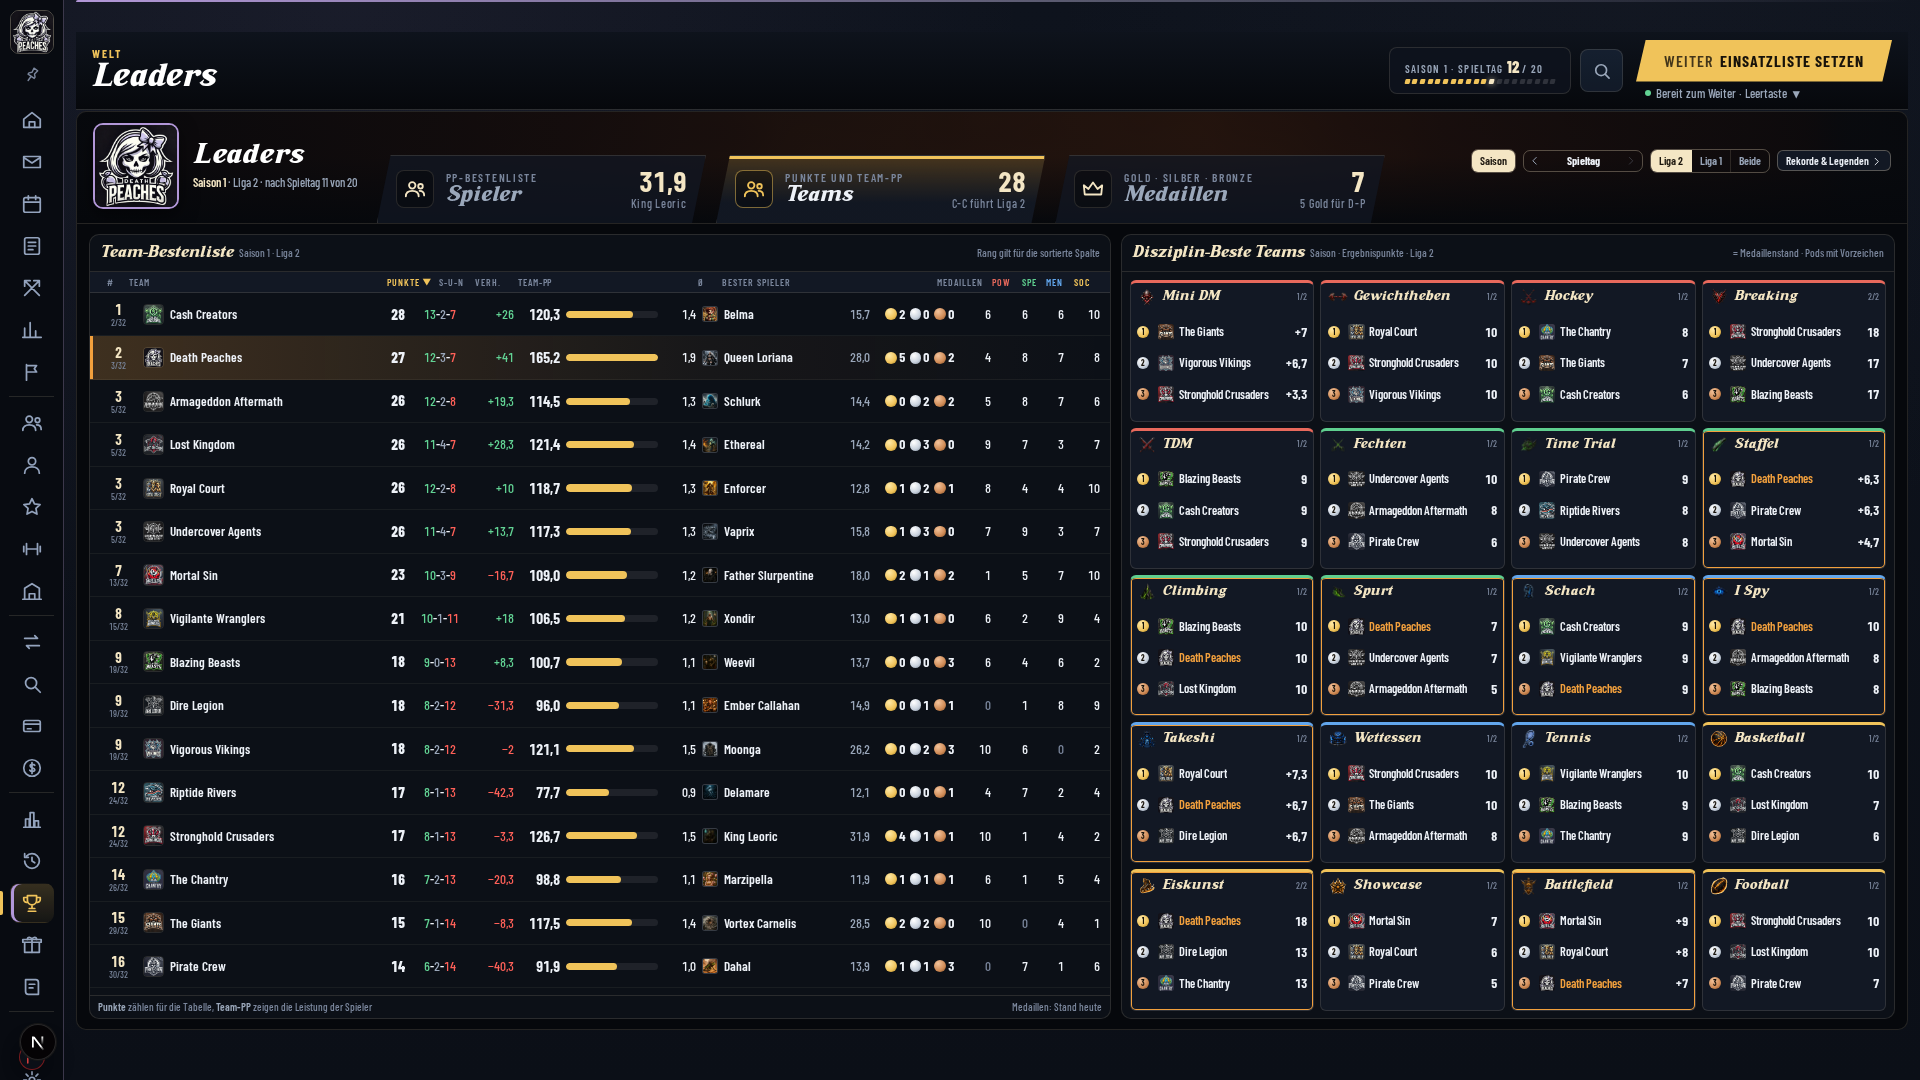
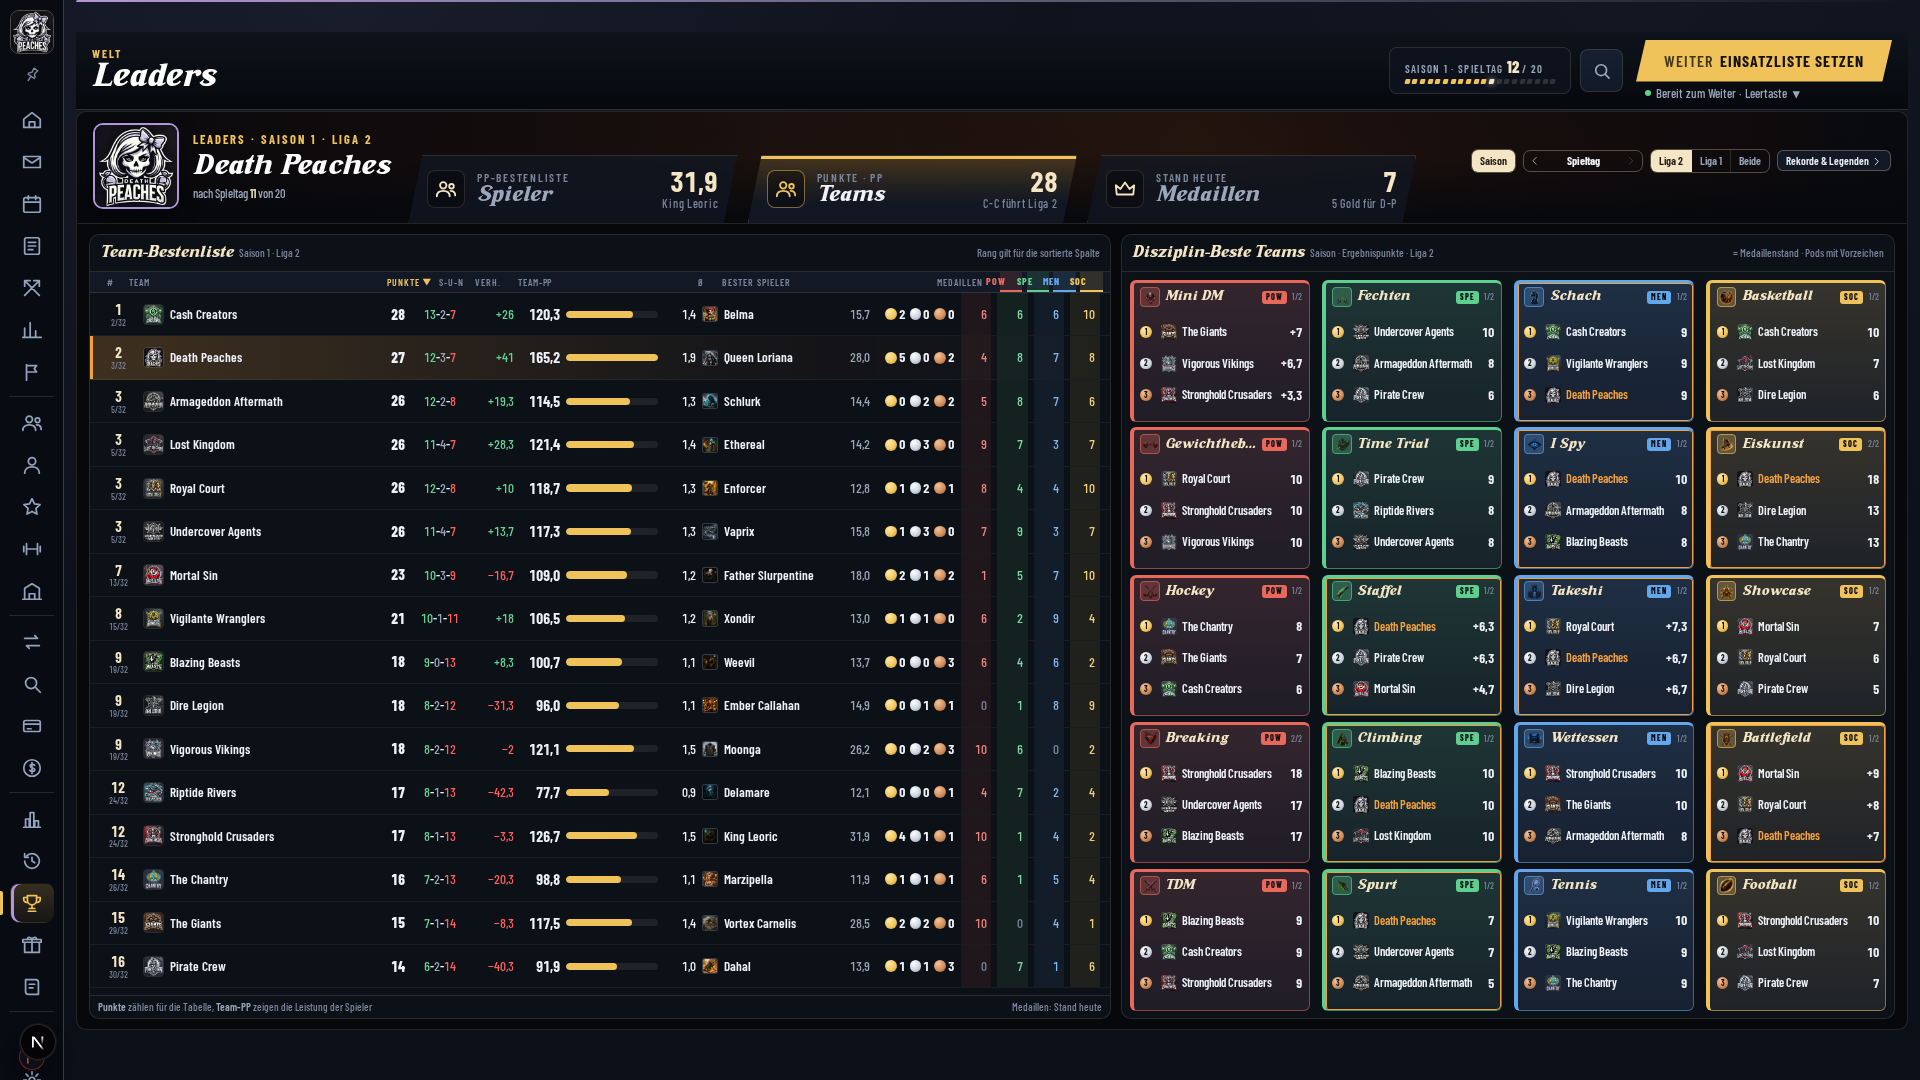
Leaders: Bereichsfarben, ein Titel im Kopf, Reiter ungekürzt, Abgleich mit Mockup
- Doppelter Titel behoben: Dachzeile "Leaders · Saison/Spieltag · Liga", Titel = Team (wie Saisonstand)
- Reiter bei 1710 px nicht mehr gekürzt (kürzere Eyebrows, unter 1800 px engere Reiter)
- Disziplin-Karten spaltenweise je Bereich mit Kante, Tönung, Kürzel und Icon-Chip in Bereichsfarbe
- Filter-Chips und Bereichsspalten in Spieler- und Team-Tabelle in Bereichsfarbe
- Bildpaare Mockup | App unter docs/design/leaders-modern-22-11/vergleich-*.png, Liste aktualisiert; veraltete Aufnahmen entfernt

Claude-Session: https://claude.ai/code/session_01UYLNtXkprKr1XK4c3X2xQq

diff --git a/app/foundation/league-leaders-v2/LeadersModern.tsx b/app/foundation/league-leaders-v2/LeadersModern.tsx
@@ -87,10 +87,10 @@ function Por({ s }: { s: LeadersSpieler }) {
   return s.portraitSrc ? <img className="po" src={s.portraitSrc} alt="" loading="lazy" /> : <span className="po">{s.initials}</span>;
 }
 type Sort = { k: string; d: 1 | -1 };
-function Kopf({ k, so, onSo, cls, tip, children }: { k: string; so: Sort; onSo: (k: string) => void; cls?: string; tip?: string; children: ReactNode }) {
+function Kopf({ k, so, onSo, cls, tip, kc, children }: { k: string; so: Sort; onSo: (k: string) => void; cls?: string; tip?: string; kc?: string; children: ReactNode }) {
   const an = so.k === k;
   return (
-    <button type="button" className={`${cls ?? ""}${an ? " so" : ""}`} data-tip={tip} onClick={() => onSo(k)}>
+    <button type="button" className={`${cls ?? ""}${an ? " so" : ""}`} style={kc ? ({ "--kc": kc } as CSSProperties) : undefined} data-tip={tip} onClick={() => onSo(k)}>
       {children}
       <span className="pf">{an && so.d > 0 ? "▲" : "▼"}</span>
     </button>
@@ -175,18 +175,23 @@ export default function LeadersModern(props: LeadersModernProps) {
       className="ld-hero"
       wappen={eigenesTeam?.logoSrc ?? null}
       wappenAlt={eigenesTeam?.name ?? ""}
-      titel="Leaders"
+      dachzeile={
+        <>
+          Leaders · {zeitName} · {ligaName}
+        </>
+      }
+      titel={eigenesTeam?.name ?? "Leaders"}
       kulisseUrl={kulisse}
       untertitel={
         <>
-          <b>{zeitName}</b> · {ligaName} · nach Spieltag {m.gebuchteSpieltage} von {m.spieltageGesamt}
+          nach Spieltag <b>{m.gebuchteSpieltage}</b> von {m.spieltageGesamt}
         </>
       }
       mitte={
         <>
           <BcReiter aktiv={sicht === "spieler"} onClick={() => setSicht("spieler")} eyebrow="PP-Bestenliste" titel="Spieler" symbol={<BcIcon name="team" />} wert={topSp ? z1(topSp.pp) : "–"} wertNote={topSp?.spieler.name ?? ""} />
-          <BcReiter aktiv={sicht === "teams"} onClick={() => setSicht("teams")} eyebrow="Punkte und Team-PP" titel="Teams" symbol={<BcIcon name="team" />} wert={fuehrer ? fuehrer.punkte : "–"} wertNote={fuehrer ? `${fuehrer.team.kuerzel} führt${eigeneLiga ? ` Liga ${eigeneLiga}` : ""}` : ""} />
-          <BcReiter aktiv={sicht === "medaillen"} onClick={() => { setSicht("medaillen"); setZeit(0); }} eyebrow="Gold · Silber · Bronze" titel="Medaillen" symbol={<BcIcon name="krone" />} wert={eigMed ? eigMed.gold + eigMed.silber + eigMed.bronze : "–"} wertNote={eigMed && eigenesTeam ? `${eigMed.gold} Gold für ${eigenesTeam.kuerzel}` : ""} />
+          <BcReiter aktiv={sicht === "teams"} onClick={() => setSicht("teams")} eyebrow="Punkte · PP" titel="Teams" symbol={<BcIcon name="team" />} wert={fuehrer ? fuehrer.punkte : "–"} wertNote={fuehrer ? `${fuehrer.team.kuerzel} führt${eigeneLiga ? ` Liga ${eigeneLiga}` : ""}` : ""} />
+          <BcReiter aktiv={sicht === "medaillen"} onClick={() => { setSicht("medaillen"); setZeit(0); }} eyebrow="Stand heute" titel="Medaillen" symbol={<BcIcon name="krone" />} wert={eigMed ? eigMed.gold + eigMed.silber + eigMed.bronze : "–"} wertNote={eigMed && eigenesTeam ? `${eigMed.gold} Gold für ${eigenesTeam.kuerzel}` : ""} />
         </>
       }
       rechts={
@@ -228,11 +233,16 @@ export default function LeadersModern(props: LeadersModernProps) {
       <div className="kk">
         <Dz id={id} name={d?.name ?? id} />
         <b>{d?.name ?? id}</b>
+        {bereichTag(id)}
         <small>{rechts}</small>
       </div>
     );
   };
   const kartenStil = (achse: LeadersAchse) => ({ "--kc": FARBE[achse] }) as CSSProperties;
+  const bereichTag = (id: string) => {
+    const a = m.disziplinen.find((x) => x.id === id)?.achse;
+    return a ? <i className="ld-ab">{LEADERS_ACHSEN_LABEL[a]}</i> : null;
+  };
 
   /* ---------------- Spieler ---------------- */
   const spielerLinks = () => {
@@ -257,7 +267,7 @@ export default function LeadersModern(props: LeadersModernProps) {
           <div className="ld-seg" role="group" aria-label="Bereich">
             <button type="button" aria-pressed={!ber} onClick={() => { setBer(null); setSoS({ k: "pp", d: -1 }); }}>Alle PP</button>
             {LEADERS_ACHSEN.map((a) => (
-              <button key={a} type="button" aria-pressed={ber === a} style={ber === a ? { background: FARBE[a], color: "#0b0d12" } : { color: FARBE[a] }} onClick={() => { setBer(a); setSoS({ k: "pp", d: -1 }); }}>{LEADERS_ACHSEN_LABEL[a]}</button>
+              <button key={a} type="button" className="ld-bb" aria-pressed={ber === a} style={{ "--kc": FARBE[a] } as CSSProperties} onClick={() => { setBer(a); setSoS({ k: "pp", d: -1 }); }}>{LEADERS_ACHSEN_LABEL[a]}</button>
             ))}
           </div>
         </div>
@@ -291,7 +301,7 @@ export default function LeadersModern(props: LeadersModernProps) {
             <Kopf k="e" so={soS} onSo={onSo} cls="r" tip="Einsätze">Eins.</Kopf>
             <Kopf k="ppe" so={soS} onSo={onSo} cls="r" tip="PP je Einsatz. Skala: der Tagesbeste einer Disziplin liegt um 5.">Ø</Kopf>
             {LEADERS_ACHSEN.map((a, i) => (
-              <Kopf key={a} k={`a${i}`} so={soS} onSo={onSo} cls="r"><span style={{ color: FARBE[a] }}>{LEADERS_ACHSEN_LABEL[a]}</span></Kopf>
+              <Kopf key={a} k={`a${i}`} so={soS} onSo={onSo} cls="r ld-ah" kc={FARBE[a]}><span>{LEADERS_ACHSEN_LABEL[a]}</span></Kopf>
             ))}
             <Kopf k="mvp" so={soS} onSo={onSo} cls="r" tip="Spieler des Spieltags (MVP-Kandidat der Wertung)">MVP</Kopf>
             <Kopf k="t10" so={soS} onSo={onSo} cls="r tipl" tip="So oft unter den zehn Besten einer Disziplin">Top 10</Kopf>
@@ -310,7 +320,7 @@ export default function LeadersModern(props: LeadersModernProps) {
                 <span className="r t leise">{z.einsaetze}</span>
                 <span className="r t">{z.einsaetze ? z1(z.pp / z.einsaetze) : "–"}</span>
                 {z.pa.map((p, i) => (
-                  <span key={i} className={`r t${p ? "" : " null"}`} style={ber === LEADERS_ACHSEN[i] ? { fontWeight: 700, color: FARBE[ber] } : undefined}>{p ? z1(p) : "–"}</span>
+                  <span key={i} className={`r t ld-aw${p ? "" : " null"}`} style={{ "--kc": FARBE[LEADERS_ACHSEN[i]!], ...(ber === LEADERS_ACHSEN[i] ? { fontWeight: 700 } : {}) } as CSSProperties}>{p ? z1(p) : "–"}</span>
                 ))}
                 <span className={`r t${z.mvp ? " gold" : " null"}`}><b>{z.mvp || "–"}</b></span>
                 <span className={`r t${z.top10 ? "" : " null"}`}>{z.top10 || "–"}</span>
@@ -439,7 +449,7 @@ export default function LeadersModern(props: LeadersModernProps) {
             <Kopf k="best" so={soT} onSo={onSo}>Bester Spieler</Kopf>
             <Kopf k="med" so={soT} onSo={onSo} cls="r" tip="Stand heute, vergeben am Saisonende">Medaillen</Kopf>
             {LEADERS_ACHSEN.map((a, i) => (
-              <Kopf key={a} k={`a${i}`} so={soT} onSo={onSo} cls={`r${i > 1 ? " tipl" : ""}`} tip={`Tabellenpunkte in ${LEADERS_ACHSEN_LABEL[a]}`}><span style={{ color: FARBE[a] }}>{LEADERS_ACHSEN_LABEL[a]}</span></Kopf>
+              <Kopf key={a} k={`a${i}`} so={soT} onSo={onSo} cls={`r ld-ah${i > 1 ? " tipl" : ""}`} kc={FARBE[a]} tip={`Tabellenpunkte in ${LEADERS_ACHSEN_LABEL[a]}`}><span>{LEADERS_ACHSEN_LABEL[a]}</span></Kopf>
             ))}
           </div>
           {liste.map((z) => (
@@ -453,7 +463,7 @@ export default function LeadersModern(props: LeadersModernProps) {
               <span className="r t">{z1(z.ppJeEinsatz)}</span>
               <span className="ld-sz">{z.best ? <><Por s={z.best.spieler} /><b>{z.best.spieler.name}</b><span className="t leise" style={{ marginLeft: "auto" }}>{z1(z.best.pp)}</span></> : "–"}</span>
               {medZ(z.team.teamId)}
-              {z.pa.map((p, i) => <span key={i} className={`r t${p ? "" : " null"}`}>{p}</span>)}
+              {z.pa.map((p, i) => <span key={i} className={`r t ld-aw${p ? "" : " null"}`} style={{ "--kc": FARBE[LEADERS_ACHSEN[i]!] } as CSSProperties}>{p}</span>)}
             </div>
           ))}
         </div>

diff --git a/app/foundation/league-leaders-v2/leaders-modern.css b/app/foundation/league-leaders-v2/leaders-modern.css
@@ -206,8 +206,8 @@
 .ld-med.s { background: radial-gradient(circle at 35% 30%, #fff, var(--ld-silber) 60%, #7d8896); }
 .ld-med.b { background: radial-gradient(circle at 35% 30%, #f3c39b, #cf8a55 60%, #7c4a22); }
 .ld-bsp { display: inline-flex; align-items: center; height: 1.3em; padding: 0 0.45em; border-radius: 3px; border: 1px dashed var(--bc-acht); color: var(--bc-acht); font-size: 0.68em; font-weight: 700; letter-spacing: 0.08em; text-transform: uppercase; white-space: nowrap; }
-.ld-dg { flex: 1; min-height: 0; display: grid; grid-template-columns: repeat(4, minmax(0, 1fr)); grid-template-rows: repeat(5, minmax(0, 1fr)); gap: 0.45em; padding: 0.6em; }
-.ld-karte { min-width: 0; min-height: 0; display: flex; flex-direction: column; border: 1px solid var(--bc-linie); border-top: 3px solid var(--kc); border-radius: 6px; background: var(--bc-flaeche-2); overflow: hidden; }
+.ld-dg { flex: 1; min-height: 0; display: grid; grid-auto-flow: column; grid-template-columns: repeat(4, minmax(0, 1fr)); grid-template-rows: repeat(5, minmax(0, 1fr)); gap: 0.4em 0.9em; padding: 0.6em; }
+.ld-karte { min-width: 0; min-height: 0; display: flex; flex-direction: column; border: 1px solid color-mix(in srgb, var(--kc) 50%, transparent); border-left: 4px solid var(--kc); border-top: 3px solid var(--kc); border-radius: 6px; background: linear-gradient(180deg, color-mix(in srgb, var(--kc) 16%, var(--bc-flaeche-2)), color-mix(in srgb, var(--kc) 6%, var(--bc-flaeche-2))); overflow: hidden; }
 .ld-karte.mein { box-shadow: inset 0 0 0 1px var(--bc-heim); }
 .ld-karte .kk { flex: none; display: flex; align-items: center; gap: 0.4em; padding: 0.3em 0.5em 0.15em; }
 .ld-karte .kk b { font: 400 1.02em/1 var(--bc-haus); color: var(--bc-creme); white-space: nowrap; overflow: hidden; text-overflow: ellipsis; flex: 1; min-width: 0; }
@@ -235,3 +235,21 @@
 .ld-hinw { flex: none; margin: 0 0.6em 0.6em; padding: 0.45em 0.65em; border: 1px solid var(--bc-linie); border-radius: 6px; background: var(--bc-flaeche-2); font-size: 0.86em; line-height: 1.3; color: var(--bc-leise); }
 .ld-hinw b { color: var(--bc-creme); }
 .ld-leer { padding: 2em 1em; text-align: center; color: var(--bc-leise); }
+
+/* Bereichsfarben (22.11. Nachbesserung): Karten laufen spaltenweise je Bereich (POW, SPE, MEN, SOC), jede Karte trägt Kante, Tönung und Kürzel. */
+.ld-ab { flex: none; font-style: normal; font-size: 0.62em; font-weight: 800; letter-spacing: 0.12em; padding: 0.15em 0.5em; border-radius: 3px; color: #0b0d12; background: var(--kc); }
+.ld-karte .kk .ld-dzi { box-sizing: border-box; padding: 0.1em; border-radius: 0.3em; background: color-mix(in srgb, var(--kc) 26%, transparent); box-shadow: inset 0 0 0 1px color-mix(in srgb, var(--kc) 60%, transparent); }
+.ld-seg button.ld-bb { color: var(--kc); background: color-mix(in srgb, var(--kc) 14%, transparent); font-weight: 800; letter-spacing: 0.05em; border-bottom: 2px solid var(--kc); }
+.ld-seg button.ld-bb:hover { background: color-mix(in srgb, var(--kc) 28%, transparent); color: var(--kc); }
+.ld-seg button.ld-bb[aria-pressed="true"] { background: var(--kc); color: #0b0d12; }
+.ld-th button.ld-ah { color: var(--kc); font-weight: 800; border-bottom: 2px solid var(--kc); background: color-mix(in srgb, var(--kc) 14%, transparent); padding: 0 0.35em; }
+.ld-th button.ld-ah.so .pf { color: var(--bc-gold); }
+.ld-tz .ld-aw { color: color-mix(in srgb, var(--kc) 80%, #fff); background: color-mix(in srgb, var(--kc) 9%, transparent); align-self: stretch; display: flex; align-items: center; justify-content: flex-end; padding: 0 0.35em; }
+.ld-tz .ld-aw.null { color: var(--bc-stumm); }
+
+/* Drei Reiter plus Zeit-/Liga-Schalter im Kopf: unter 1800 px enger setzen, damit „Medaillen“ nicht gekürzt wird (1710 px, MacBook). */
+@media (max-width: 1800px) {
+  .ld .bc-reiter { gap: 7px; padding: 9px 10px 10px 14px; }
+  .ld .bc-reiter__ic { display: none; }
+  .ld .bc-reiter__ti { font-size: 19px; }
+}

diff --git a/docs/design/leaders-modern-22-11.md b/docs/design/leaders-modern-22-11.md
@@ -148,3 +148,19 @@ Die alten Ligaleader-Karten (PPS, Achsen, MVS, OVR, Training, Most Improved) sin
 | MVP-Zähler | angepasst: Zahl der MVP-Kandidaten-Markierungen der Wertung (`isMvpCandidate`), im Tooltip benannt |
 | „Rekorde & Legenden“ | neu (Knopf im Kopf, siehe oben) |
 | Nebel | entfällt, alles öffentlich |
+
+### Nachbesserung 22.11. (Bereichsfarben, Kopf, Abgleich)
+
+| Punkt | Änderung |
+|---|---|
+| Doppelter Titel | Das Regieband der Shell nennt „Leaders“, der Hero trägt jetzt wie der Saisonstand das Team als Titel und „Leaders · Saison/Spieltag · Liga“ als Dachzeile |
+| Reiter bei 1710 px | Eyebrows kürzer („Punkte · PP“, „Stand heute“), unter 1800 px engere Reiter ohne Symbolfeld: Titel und Zahl stehen ungekürzt |
+| Disziplin-Karten | laufen spaltenweise je Bereich (POW, SPE, MEN, SOC); jede Karte mit 4 px Kante, Oberkante, Tönung, Bereichs-Kürzel und Icon-Chip in Bereichsfarbe; gilt für Spieler, Teams, Medaillen und die Tagesbesten |
+| Filter-Chips | POW/SPE/MEN/SOC in Bereichsfarbe mit Tönung und Unterstrich, aktiv voll gefüllt |
+| Tabellen | Bereichsspalten POW/SPE/MEN/SOC (Spieler und Teams) mit getönten Köpfen und Zellen |
+
+Abgleich: Bildpaare `leaders-modern-22-11/vergleich-<ansicht>-<größe>.png` (links Mockup, rechts App; Live-Abbild, Team D-P; kein Seitenscroll).
+Bewusst anders als das Mockup: der Hero-Titel (Team statt „Leaders“, siehe oben), die Shell um die Seite (Schiene, Regieband), die Kartenreihenfolge (Mockup zeilenweise gemischt, App spaltenweise je Bereich, damit die Bereiche getrennt lesbar sind).
+Drin / angepasst / fehlt: alle Mockup-Merkmale bleiben drin, angepasst sind die genannten Punkte, es fehlt nichts.
+
+Bildstand: Bildpaare für Spieler (1920x1080, 2560x1440, 1710x1112), Teams (1920x1080), Medaillen (1920x1080, 2560x1440) und Spieltag (1920x1080). Die Aufnahmen der älteren Fassung, die nicht neu gemacht wurden (Teams 2560/1710, Spieltag 2560/1710, Medaillen 1710), sind entfernt, damit kein Bild den alten Stand zeigt.
